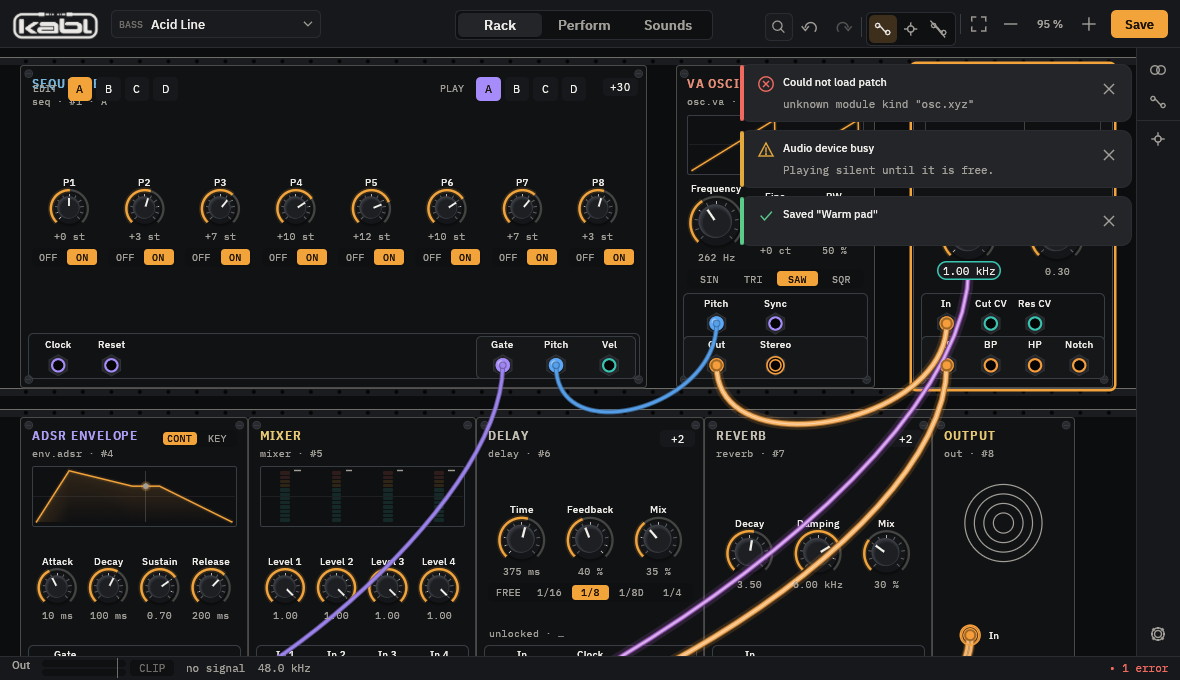
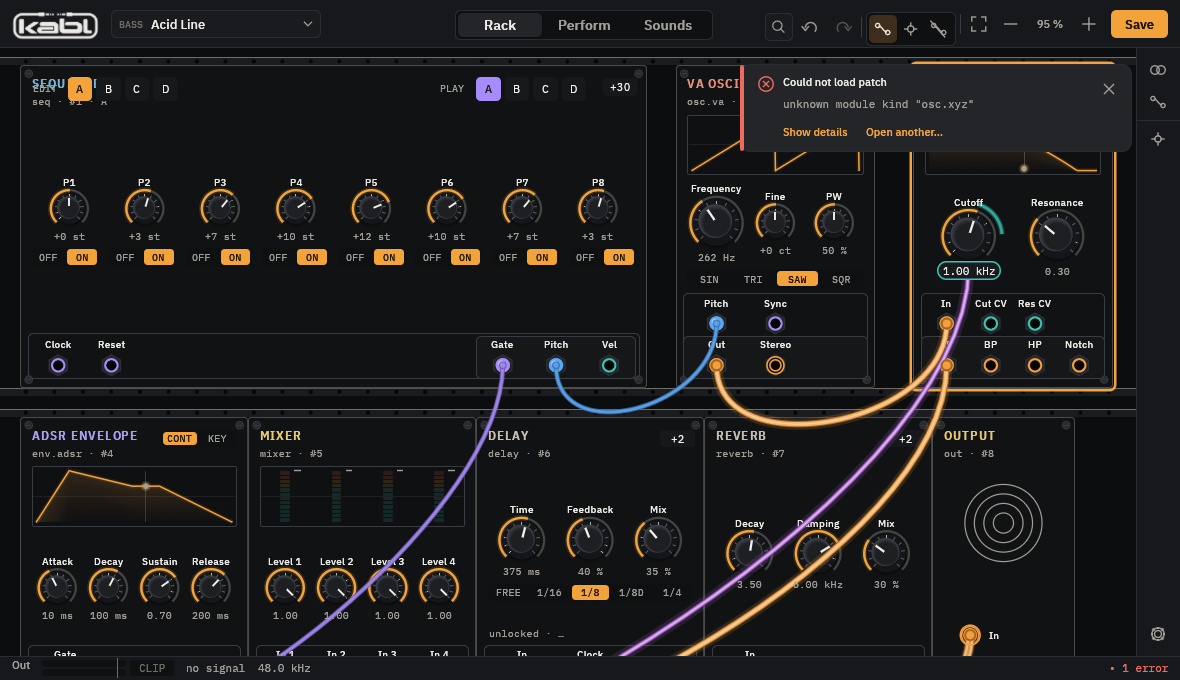
UI G4 F1: error capture without drawer, recaptured sheets

Changed region(s): [[0.6102, 0.1544, 0.9763, 0.3706], [0.8542, 0.3397, 0.8847, 0.3706]]

diff --git a/crates/ui/examples/chrome_capture.rs b/crates/ui/examples/chrome_capture.rs
@@ -99,7 +99,7 @@ impl App {
             self.editor.set_param(id, &k, v + 1.0);
         }
         ui.browser_open = j.scene == "sounds";
-        ui.drawer_open = matches!(j.scene, "rack" | "error");
+        ui.drawer_open = matches!(j.scene, "rack");
         if j.scene == "empty" {
             self.editor = PatchEditor::new();
         }
